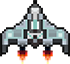
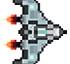
final

diff --git a/AsteroidAvoider/AsteroidAvoider.js b/AsteroidAvoider/AsteroidAvoider.js
@@ -16,13 +16,13 @@ var theAsteroid = new Image();
 theAsteroid.src = "images/asteroid.png";
 
 
-menu.onload = function(){
+menu.onload = function () {
     main();
 };
 
 
 //asteroid variables
-var numAsteroids = 20
+var numAsteroids = 10;
 var asteroids = [];
 
 //player ship var
@@ -102,51 +102,56 @@ function pressKeyUp(e) {
 //asteroid class
 function Asteroid() {
     //properties to draw the asteroid
-    this.radius = randomRange(15, 2);
-    this.x = randomRange(canvas.width - this.radius, this.radius);
-    this.y = randomRange(canvas.height - this.radius, this.radius) - canvas.height;
+    this.radius = randomRange(18, 5);
+    this.x = randomRange(canvas.width - this.radius, this.radius) + canvas.width;
+    this.y = randomRange(canvas.height - this.radius, this.radius);
     //asteroid speed
-    this.vy = randomRange(5, 2);
+    this.vy = randomRange(10, 5);
 
     this.color = "white";
 
     //methods (functions) to draw asteroid
     this.drawAsteroid = function () {
         ctx.save();
-        
-    ctx.drawImage(theAsteroid, this.x, this.y);
+        ctx.beginPath();
+        ctx.fillStyle = "white";
+        ctx.arc(this.x, this.y, this.radius, 0 , Math.PI *2,true);
+
+        ctx.closePath();
+        ctx.fill();
+        ctx.drawImage(theAsteroid, this.x-this.radius, this.y-this.radius, this.radius * 2, this.radius *2);
         //console.log(this.x,this.y,this.radius,this.color);
-    }
+    };
 }
 
 function PlayerShip() {
     this.x = canvas.width / 2;
     this.y = canvas.height / 2;
-    this.width = 20;
-    this.height = 20;
+    this.width = 50;
+    this.height = 50;
     this.up = false;
     this.down = false;
     this.left = false;
     this.right = false;
     this.vx = 0;
     this.vy = 0;
-    this.flameLength = 30;
+    // this.flameLength = 30;
 
     this.drawShip = function () {
         ctx.save();
         ctx.translate(this.x, this.y);
         //draw ship
-      /*  ctx.fillStyle = "red";
-        ctx.beginPath();
-        ctx.moveTo(0, -10);
-        ctx.lineTo(10, 10);
-        ctx.lineTo(-10, 10);
-        ctx.lineTo(0, -10);
-        ctx.closePath(); */
+        //   ctx.fillStyle = "red";
+        //   ctx.beginPath();
+        //   ctx.moveTo(0, -10);
+        //   ctx.lineTo(10, 10);
+        //   ctx.lineTo(-10, 10);
+        //   ctx.lineTo(0, -10);
+        //   ctx.closePath(); 
+      //  ctx.fill();
+        ctx.drawImage(theShip, -10, -10, this.width, this.height);
 
-        ctx.drawImage(theShip, -20, -20);
-
-        ctx.restore(); 
+        ctx.restore();
     }
 
     this.moveShip = function () {
@@ -195,7 +200,7 @@ function main() {
 //main menu state
 gameState[0] = function () {
     //code for main menu
-  //  ctx.save();
+    //  ctx.save();
     //ctx.font = "30px Arial";
     //ctx.fillStyle = "white";
     //ctx.textAlign = "center";
@@ -203,7 +208,7 @@ gameState[0] = function () {
     //ctx.font = "15px Arial";
     //ctx.fillText("press space to start", canvas.width / 2, canvas.height / 2 + 20);
 
-    ctx.drawImage(menu,0,0,canvas.width, canvas.height);
+    ctx.drawImage(menu, 0, 0, canvas.width, canvas.height);
 
 
     ctx.restore();
@@ -249,9 +254,9 @@ gameState[1] = function () {
             return;
         }
 
-        if (asteroids[i].x < canvas.height + asteroids[i].radius) {
-            asteroids[i].y = randomRange(canvas.height - asteroids[i].radius, asteroids[i].radius) - canvas.height;
-            asteroids[i].x = randomRange(canvas.width - asteroids[i].radius, asteroids[i].radius);
+        if (asteroids[i].x <  - asteroids[i].radius) {
+            asteroids[i].y = randomRange(canvas.height - asteroids[i].radius, asteroids[i].radius) ;
+            asteroids[i].x = randomRange(canvas.width - asteroids[i].radius, asteroids[i].radius) + canvas.width;
         }
 
         asteroids[i].x -= asteroids[i].vy;
@@ -274,7 +279,7 @@ gameState[2] = function () {
         highScore = score;
         //code for game over
         ctx.save();
-        ctx.drawImage(endMenu,0,0,canvas.width, canvas.height);
+        ctx.drawImage(endMenu, 0, 0, canvas.width, canvas.height);
         ctx.font = "30px Arial";
         ctx.fillStyle = "white";
         ctx.textAlign = "center";
@@ -288,7 +293,7 @@ gameState[2] = function () {
     } else {
         //code for game over
         ctx.save();
-        ctx.drawImage(endMenu,0,0,canvas.width, canvas.height);
+        ctx.drawImage(endMenu, 0, 0, canvas.width, canvas.height);
         ctx.font = "30px Arial";
         ctx.fillStyle = "white";
         ctx.textAlign = "center";

diff --git a/assignment4/index.html b/assignment4/index.html
@@ -30,12 +30,12 @@
         </nav>
         <!--game 1-->
         <article>
-            <a href="#"><img src="images/startscreen.png" alt="asteroid avoider menu" width="350" class="article-image"></a>
+            <a href="../AsteroidAvoider/index.html"><img src="images/startscreen.png" alt="asteroid avoider menu" width="350" class="article-image"></a>
 
             <div class="game-info">
                 <h2>Asteroid Avoider</h2>
                 <p>A game where you are in a space ship and you have to avoid the asteroids that are coming to you</p>
-                <li><a href="AsteroidAvoider/index.html" class="btn">Link to game</a></li>
+                <li><a href="../AsteroidAvoider/index.html" class="btn">Link to game</a></li>
             </div>
         </article>
         <!--game 2-->

diff --git a/index.html b/index.html
@@ -33,6 +33,7 @@
         <li><a href="rps/index.html">assigment6 rps</a></li>
         <li><a href="w7_RPS/index.html">W7 RPS Game</a></li>
         <li><a href="week8/index.html">Car Game</a></li>
+        <li><a href="assignment4/index.html">Portfolio</a></li>
     </ul>
     
 </body>
